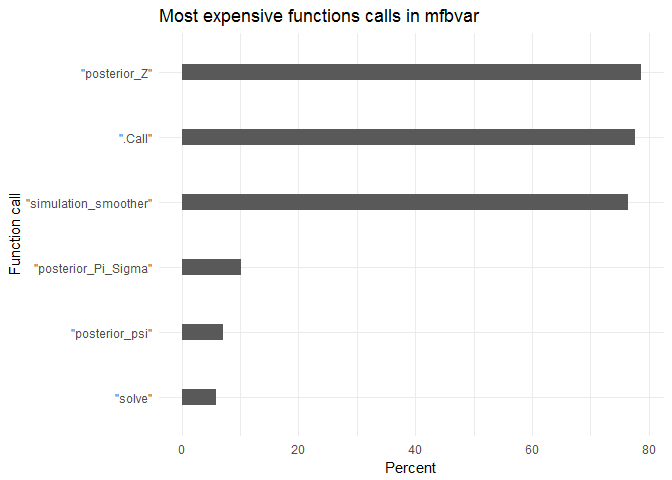
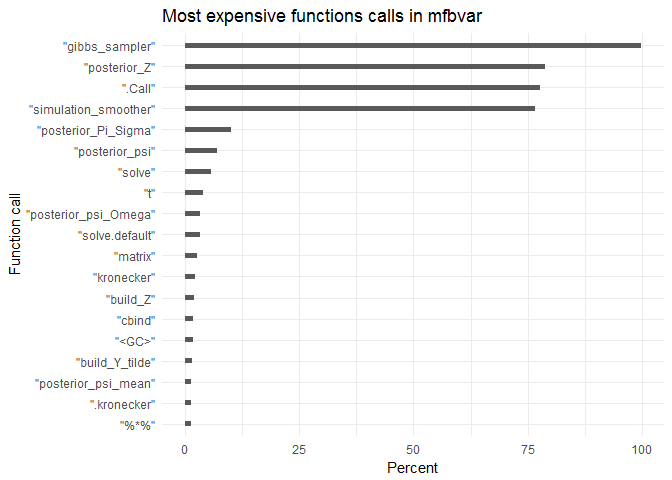
Updated README

diff --git a/README.md b/README.md
@@ -1,7 +1,17 @@
 
 <!-- README.md is generated from README.Rmd. Please edit that file -->
-News (2017-03-11)
+News (2017-03-14)
 =================
+
+What is new in version 0.2.3:
+
+-   `mdd_grid()` to do grid search for hyperparameters, possibly using parallel computing
+-   Methods (`print`, `summary`, `plot`) for class `mdd` (return of `mdd_grid()`)
+-   Improved `smoother()`, the example now runs in 10 instead of 20 seconds
+-   `interval_to_moments()` to convert a matrix of prior probability intervals to prior moments of `psi`
+
+News (2017-03-11)
+-----------------
 
 What is new in version 0.2.1:
 
@@ -120,7 +130,7 @@ After having set these preliminary variables, we can now call the main function 
 set.seed(10237)
 mfbvar_obj <- mfbvar(Y, d, d_fcst, Lambda, prior_Pi_AR1, lambda1, lambda2, 
                      prior_nu, prior_psi_mean, prior_psi_Omega, 
-                     n_lags, n_fcst, n_burnin, n_reps) 
+                     n_lags, n_fcst, n_burnin, n_reps, verbose = FALSE) 
 ```
 
 Obtaining the results
@@ -261,45 +271,74 @@ The package contains functions for estimating the marginal data density. This is
 First, we'll use grids between 0.1 and 0.5 for `lambda1` and between 1 and 4 for `lambda2`.
 
 ``` r
-lambda1_vec <- seq(0.1, 0.5, by = 0.05)
-lambda2_vec <- seq(1, 4, by = 0.5)
-lambda_mat <- expand.grid(lambda1_vec, lambda2_vec)
+lambda1_grid <- seq(0.1, 0.5, by = 0.05)
+lambda2_grid <- seq(1, 4, by = 0.5)
 ```
 
 We can also create two wrapper functions to use for the parallel call:
 
 ``` r
-mdd_search <- function(lambda1, lambda2) {
-  mfbvar_obj <- mfbvar(Y, d, d_fcst, Lambda, prior_Pi_AR1, lambda1, lambda2, 
-                     prior_nu, prior_psi_mean, prior_psi_Omega, 
-                     n_lags, n_fcst, n_burnin, n_reps) 
-  log_mdd <- mdd2(mfbvar_obj, p_trunc = 0.5)$log_mdd
-  return(list(log_mdd = log_mdd, lambda1 = lambda1, lambda2 = lambda2))
-}
-
-par_func <- function(j, lambda_mat) {
-  lambda1 <- lambda_mat[j, 1]
-  lambda2 <- lambda_mat[j, 2]
-  mdd_search(lambda1, lambda2)
-}
+mdd_res <- mdd_grid(mfbvar_obj, lambda1_grid, lambda2_grid, method = 2, n_cores = 7, p_trunc = 0.5)
+#> Computing log marginal data density
+#> 
+#> Initiating parallel processing using 7 cores
 ```
 
-Finally, the parallel processing is conducted using `parLapply()`:
-
-Transforming the results and plotting gives us an idea of what hyperparameter values are sensible.
+The return is an object of class `mdd`, for which three methods are implemented.
 
 ``` r
-library(ggplot2)
-mdd <- data.frame(matrix(unlist(mdd_res), ncol = 3, byrow = TRUE))
-names(mdd) <- c("log_mdd", "lambda1", "lambda2")
-ggplot(mdd, aes(x = lambda1, y = lambda2, fill = log_mdd)) +
-  geom_tile() +
-  theme_minimal() +
-  scale_fill_gradient(low = "grey20", high = "grey90", name = "log(mdd)") +
-  coord_fixed(ratio = 1/10)
+mdd_res
+#>              [,1]      [,2]      [,3]      [,4]      [,5]      [,6]
+#> log_mdd -683.7274 -673.0102 -667.7217 -665.3272 -662.7505 -660.8704
+#> lambda1    0.1000    0.1500    0.2000    0.2500    0.3000    0.3500
+#> lambda2    1.0000    1.0000    1.0000    1.0000    1.0000    1.0000
+#>              [,7]      [,8]      [,9]   [,10]     [,11]     [,12]
+#> log_mdd -660.5268 -656.3475 -653.2478 -684.98 -672.0283 -664.5906
+#> lambda1    0.4000    0.4500    0.5000    0.10    0.1500    0.2000
+#> lambda2    1.0000    1.0000    1.0000    1.50    1.5000    1.5000
+#>             [,13]     [,14]     [,15]     [,16]    [,17]    [,18]    [,19]
+#> log_mdd -659.8905 -656.5388 -654.9418 -656.6594 -650.892 -651.482 -685.833
+#> lambda1    0.2500    0.3000    0.3500    0.4000    0.450    0.500    0.100
+#> lambda2    1.5000    1.5000    1.5000    1.5000    1.500    1.500    2.000
+#>             [,20]     [,21]     [,22]     [,23]     [,24]     [,25]
+#> log_mdd -672.1435 -662.9657 -657.3545 -653.6948 -649.2687 -650.0762
+#> lambda1    0.1500    0.2000    0.2500    0.3000    0.3500    0.4000
+#> lambda2    2.0000    2.0000    2.0000    2.0000    2.0000    2.0000
+#>             [,26]     [,27]    [,28]     [,29]     [,30]     [,31]
+#> log_mdd -648.4397 -651.2195 -686.509 -671.3404 -661.6287 -656.7549
+#> lambda1    0.4500    0.5000    0.100    0.1500    0.2000    0.2500
+#> lambda2    2.0000    2.0000    2.500    2.5000    2.5000    2.5000
+#>             [,32]     [,33]     [,34]     [,35]     [,36]     [,37]
+#> log_mdd -651.7985 -649.1342 -646.7131 -646.6936 -646.8671 -686.9477
+#> lambda1    0.3000    0.3500    0.4000    0.4500    0.5000    0.1000
+#> lambda2    2.5000    2.5000    2.5000    2.5000    2.5000    3.0000
+#>             [,38]     [,39]     [,40]     [,41]     [,42]     [,43]
+#> log_mdd -670.2451 -660.9317 -655.0603 -651.8939 -647.3467 -647.2382
+#> lambda1    0.1500    0.2000    0.2500    0.3000    0.3500    0.4000
+#> lambda2    3.0000    3.0000    3.0000    3.0000    3.0000    3.0000
+#>             [,44]     [,45]     [,46]     [,47]     [,48]     [,49]
+#> log_mdd -645.1904 -646.9559 -686.6875 -670.5887 -659.8894 -655.5043
+#> lambda1    0.4500    0.5000    0.1000    0.1500    0.2000    0.2500
+#> lambda2    3.0000    3.0000    3.5000    3.5000    3.5000    3.5000
+#>             [,50]     [,51]     [,52]     [,53]     [,54]     [,55]
+#> log_mdd -648.8613 -646.6725 -645.8138 -644.5609 -643.4306 -686.8019
+#> lambda1    0.3000    0.3500    0.4000    0.4500    0.5000    0.1000
+#> lambda2    3.5000    3.5000    3.5000    3.5000    3.5000    4.0000
+#>             [,56]     [,57]     [,58]    [,59]    [,60]     [,61]
+#> log_mdd -671.4148 -661.3773 -654.6615 -649.855 -646.684 -646.8024
+#> lambda1    0.1500    0.2000    0.2500    0.300    0.350    0.4000
+#> lambda2    4.0000    4.0000    4.0000    4.000    4.000    4.0000
+#>             [,62]     [,63]
+#> log_mdd -643.5514 -644.8638
+#> lambda1    0.4500    0.5000
+#> lambda2    4.0000    4.0000
+summary(mdd_res)
+#> Highest log marginal data density: -643.4306 
+#> Obtained using lambda1 = 0.5 and lambda2 = 3.5
+plot(mdd_res)
 ```
 
-![](README-mddplot-1.png)
+![](README-mdd-1.png)
 
 Profiling
 ---------
@@ -308,6 +347,7 @@ Profiling of the code shows that `simulation_smoother` is by far the most time-c
 
 ``` r
 library(tidyverse)
+#> Loading tidyverse: ggplot2
 #> Loading tidyverse: tibble
 #> Loading tidyverse: tidyr
 #> Loading tidyverse: readr
@@ -317,11 +357,12 @@ library(tidyverse)
 #> filter(): dplyr, stats
 #> lag():    dplyr, stats
 profiling <- summaryRprof("../profiling.Rprof")$by.total
-profiling <- profiling[order(profiling$total.pct, decreasing = TRUE) & profiling$total.pct < 99,]
-profiling <- head(profiling) 
 profiling$call <- rownames(profiling)
-profiling <- as_tibble(profiling)
 profiling %>%
+  as_tibble() %>%
+  filter(total.pct < 100) %>%
+  arrange(-total.pct) %>%
+  filter(row_number() < 20) %>%
   ggplot(aes(x = reorder(call, total.pct), y = total.pct)) +
   geom_bar(stat = "identity", width = 0.25) +
   theme_minimal() +
@@ -336,5 +377,4 @@ To do
 
 Some things that remain to do:
 
--   Wrapper for computing the mdd for grids of values, possibly also in parallel. Something like `mdd_search(lambda1, lambda2, n_cores = 1, method, ...)`.
--   Helper function `interval_to_moments()` which takes a matrix of lower and upper bounds for prior intervals for steady states and return `prior_psi_mean` and `prior_psi_Omega`.
+-   In terms of speed, improvements can most probably mostly be made using a different form of the state-space model as suggested by Schorfheide and Song (2015).
